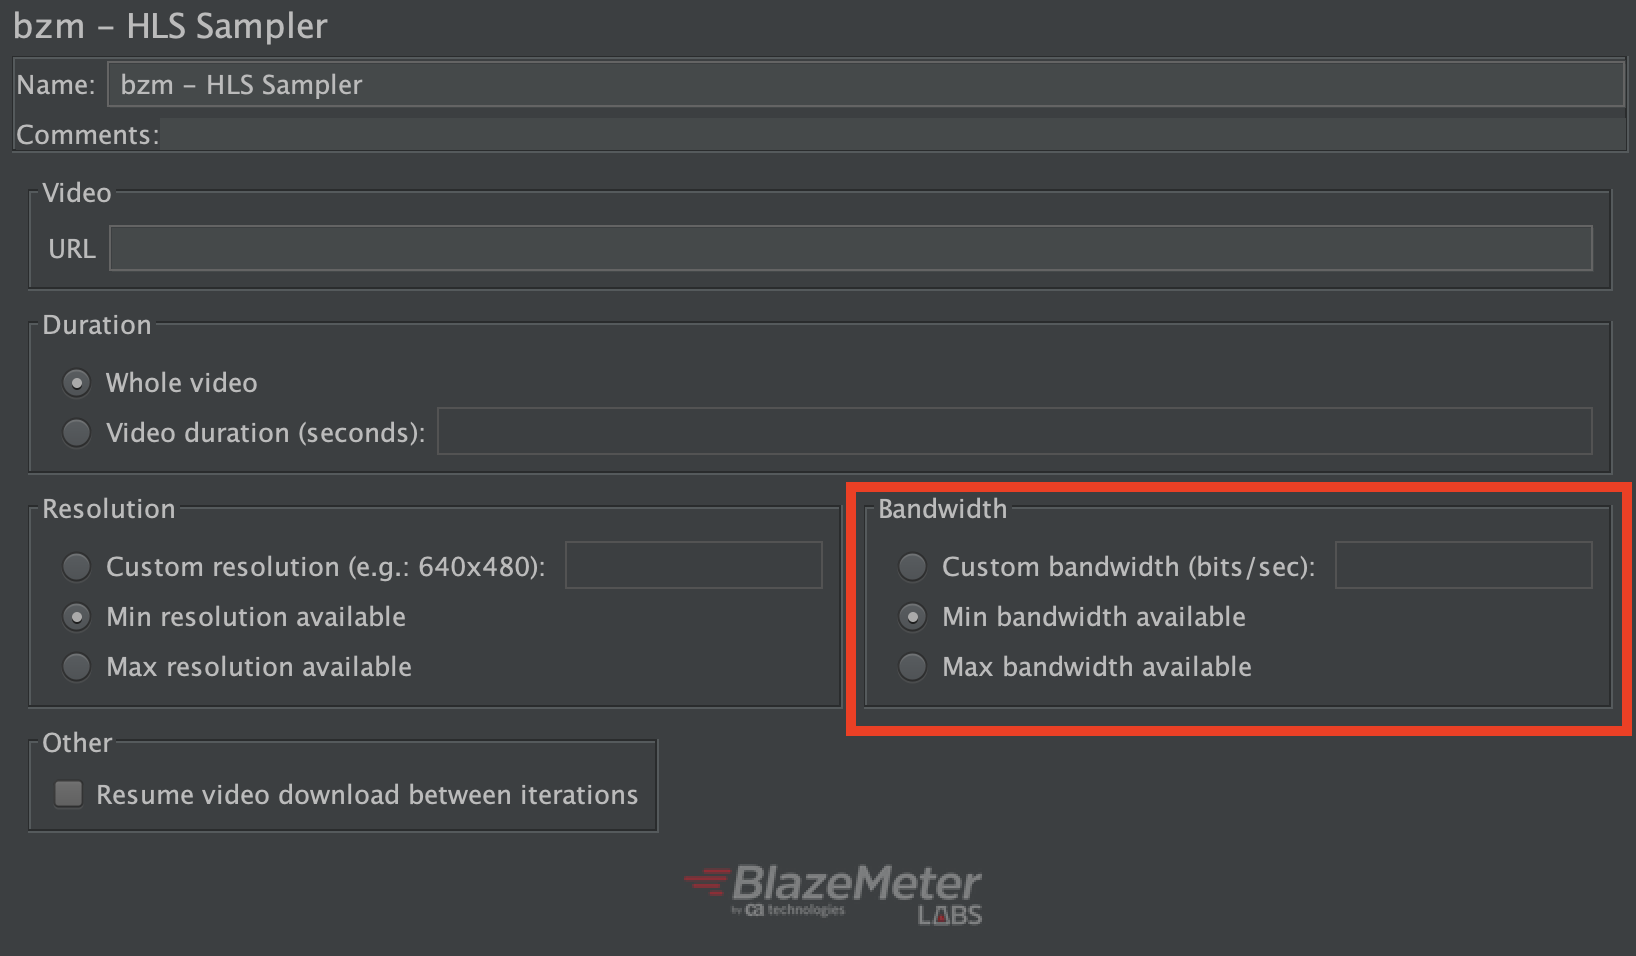
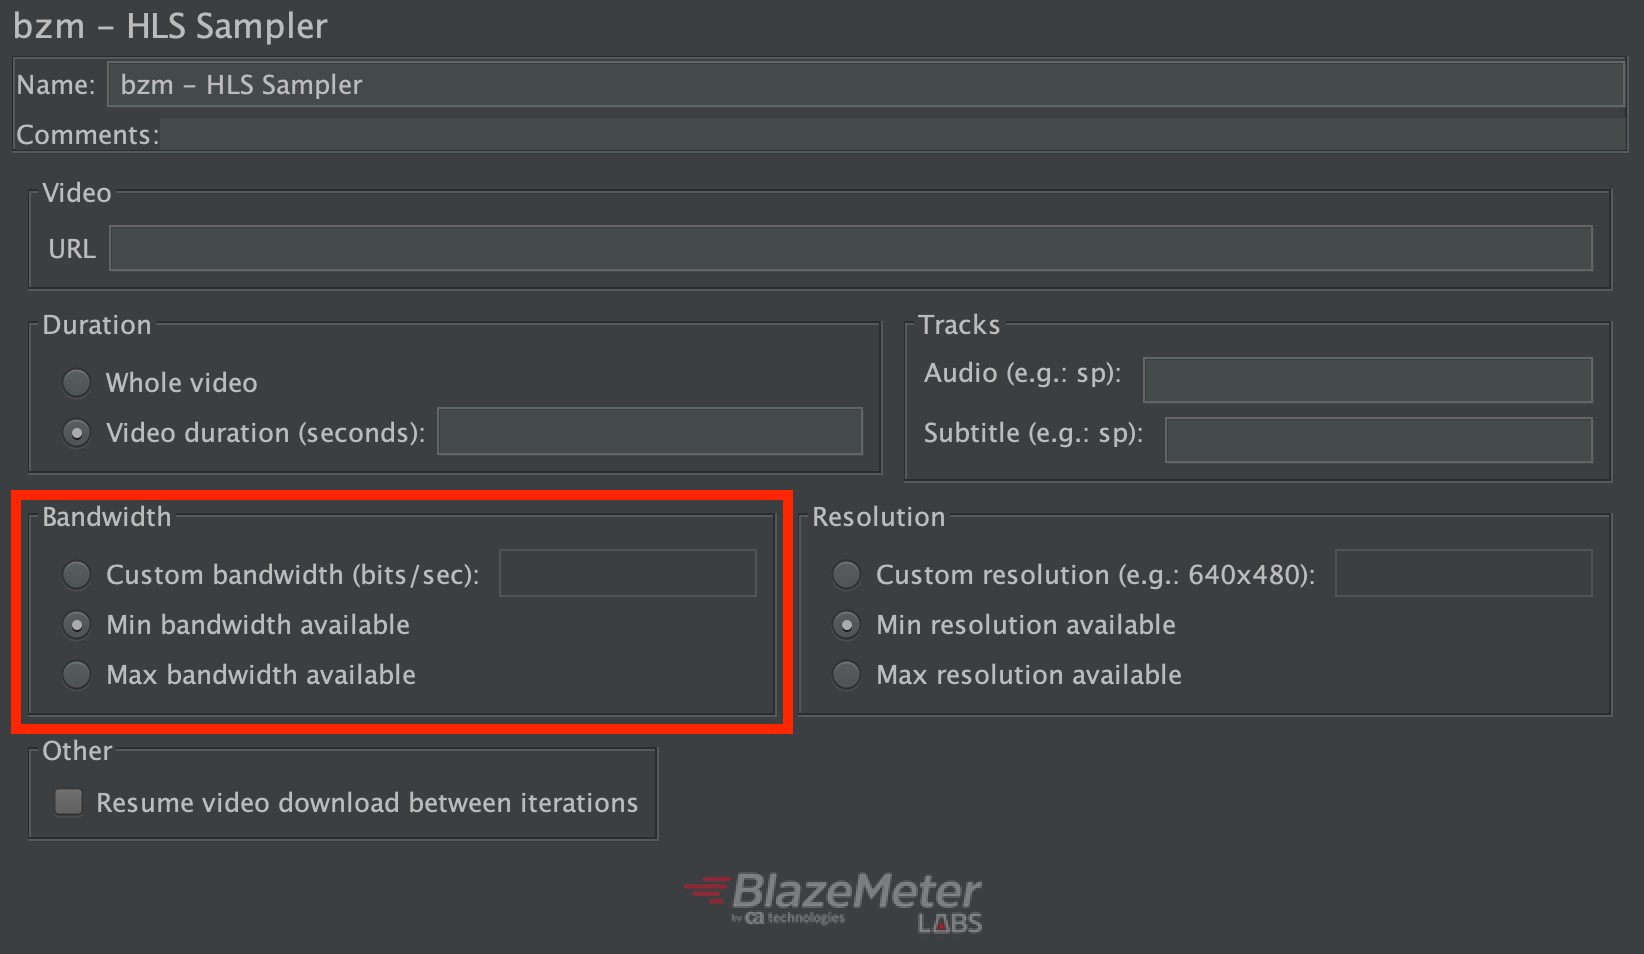
Update readme screenshots and include subtitles & audio section

diff --git a/README.md b/README.md
@@ -5,6 +5,7 @@ The HLS protocol provides a reliable, cost-effective means of delivering continu
 For more information related to HLS, please refer to the  [wikipedia page](https://en.wikipedia.org/wiki/HTTP_Live_Streaming) or to the [RFC](https://tools.ietf.org/html/rfc8216).
 
 Currently the project uses the [HLSParserJ](https://github.com/Comcast/hlsparserj) library to parse the playlists.
+
 #### In a HTTP Live Streaming process:
 
 - The audio/video to be streamed is reproduced by a media encoder at different quality levels, bitrates and resolutions. Each version is called a variant.
@@ -33,59 +34,48 @@ Here is what the HLS Sampler looks like:
 
 After that you can add assertions, listeners, etc.
 
-### HLS Sampler Properties
+### HLS Sampler configuration
 
-The following properties can be set in the HLS Sampler. They should be tuned to simulate the real scenario you want to test.
-
-#### Video options
+#### Master playlist URL
 
 Set the link to the master playlist file
 
-- URL
-
 ![](docs/video-url.png)
 
-#### Play options
+#### Duration
 
-Set the playback time of the test:
-
-- Whole video
-- Video duration (seconds)
+Set the playback time to either the whole video or a certain amount of seconds.
 
 ![](docs/duration.png)
 
-#### Network options
+#### Audio & subtitles tracks
 
-Select the protocol of the playlist you want to test. You can identify it in the link to the master playlist file:
+You can specify if you want the plugin to download a specific alternative audio or subtitle track by either the language code or name (e.g. `fr` or `french`).
 
-- http
-- https
-
-#### Resolution
-
-Select a resolution to simulate your specific device.
-
-![](docs/resolution.png)
+![](docs/audio-and-subtitles.png)
 
 #### Bandwidth
 
-After selecting the desired resolution you can select the bandwidth you want to simulate in your test. If there is only one playlist for the selected bandwidth, the plugin will select the playlist based only on this criterion.
-
-- Custom Bandwidth (bits/s)
-- Min bandwidth available
-- Max bandwidth available
+Select the bandwidth criteria to be used to select a particular variant of the video.
 
 ![](docs/bandwidth.png)
 
+#### Resolution
+
+Select the resolution criteria to be used to select a particular variant of the video. The plugin will consider the bandwidth criteria more important, unless resolution is set to a custom value and bandwidth is not.
+
+![](docs/resolution.png)
+
+
 #### Resume video downloads
 
-When iterations are used, the sampler will (by default) start downloading video segments from the beginning of the video for each iteration. It is possible to make the sampler continue in each iteration downloading video segments from the last iteration by checking the "Resume video downloads between iterations" checkbox.
+Specify whether you want the playback to be resumed or not between. If you leave the default value, then the plugin will restart playback from the beginning of the stream on each iteration.
 
 ![](docs/resume-video.png)
 
 ## Results
 
-You can set listeners to evaluate the results of your tests. The View Results Tree Listener displays the resultant samples for the HLS samplers so, you can inspect how the requests and responses worked. It will display each one of the samples with the name of the type it downloaded (master playlist, media playlist or video segment) to identify them.
+You can set listeners to evaluate the results of your tests. The View Results Tree Listener displays the resultant samples for the HLS samplers so, you can inspect how the requests and responses worked. It will display each one of the samples with the associated type (master playlist, media playlist or video segment) to easily identify them.
 
 ![](docs/sample-results.png)
 
@@ -102,11 +92,10 @@ Following is an example of an assertion that applies only to media segments:
 
 If you want an assertion to apply to all generated sample results, then just use any name that does not include a sample result type suffix.
 
-**Note:** Assertions and post processors will not work for sub results (like redirection sub samples).
+**Note:** Assertions and post processors will not work for sub results (like redirection sub samples). And selection of samples to apply to (main/sub samples) on assertions and post processors will have no effect.
 
 ## Stop/Shutdown Buttons
 
-When you press "Shutdown" button, you may have to wait a relative long time before the test plan actually stops. This may happen since the behavior of such button is to wait for current samples to end (check [JMeter User guide for more details](https://jmeter.apache.org/usermanual/build-test-plan.html#stop)), and HLS sampler may take a relative long time to finish sampling a URL depending on the specified play time and the type of used playlist. For instance, if you set a livestream URL and specify to play the whole video, then it will never end, and doing a shutdown will not stop it.
+When you press "Shutdown" button, you may have to wait a relative long time before the test plan actually stops. This may happen due to the behavior of such button, which is to wait for current samples to end (check [JMeter User guide for more details](https://jmeter.apache.org/usermanual/build-test-plan.html#stop)), and HLS sampler may take a relative long time to finish sampling a URL depending on the specified play time and the type of used playlist. For instance, if you set a live stream URL and specify to play the whole video, then it will never end, and doing a shutdown will not stop it.
 
 On the contrary, when "Stop" is pressed, current sample is interrupted (and a failure sample result is be generated) and test plan stops immediately.
-
